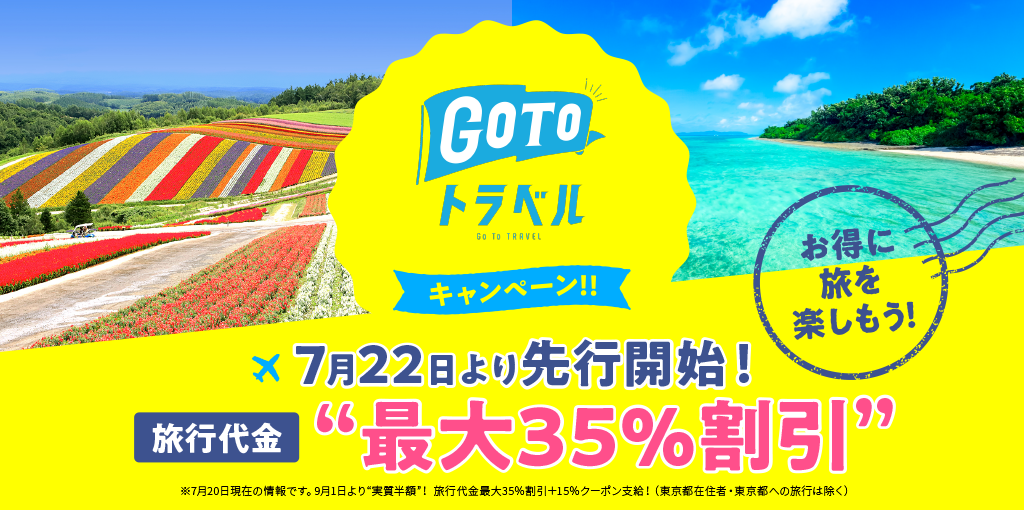
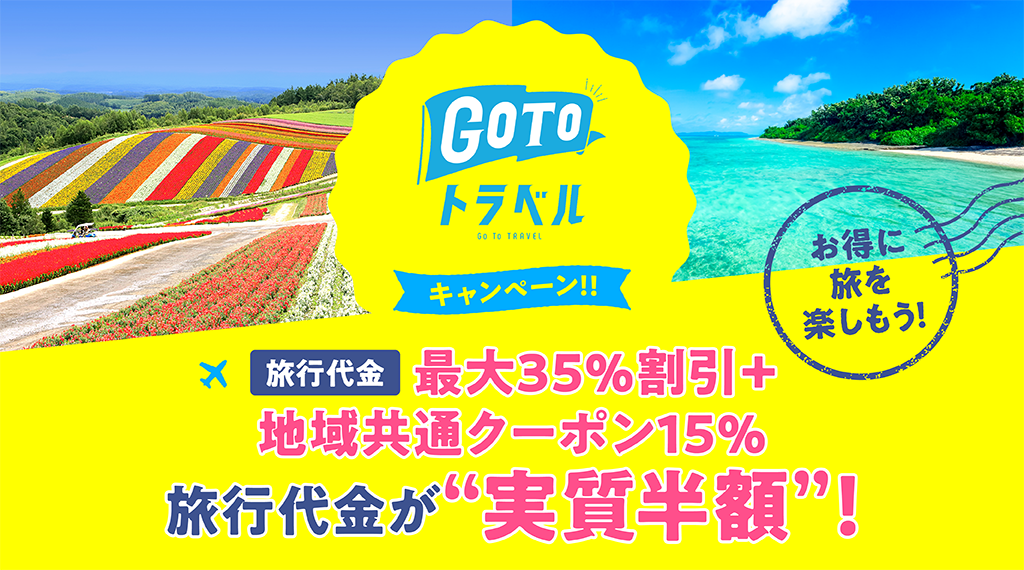
goto include tokyo

diff --git a/gototravel-page.php b/gototravel-page.php
@@ -49,9 +49,7 @@ Template Name: GOTOトラベルキャンペーンページ（gototravel-page.php
 	<img class="sp" src="<?php echo get_template_directory_uri(); ?>/img/ss/about_sp.svg" alt="Go To Travelキャンペーンとは" />
 </h2>
 <p class="aboutDescription">新型コロナウイルスの収束後に、観光需要を喚起させ、地域の再活性化を目指すキャンペーンが「Go To Travel キャンペーン」です。<br/><br/>
-期間中に旅行商品を購入した消費者に対して、国が旅行代金の最大半額（50%）分を、旅行代金で35%、土産物店、飲食店、観光施設、 アクティビティ、交通機関などで使えるクーポンで15%補助する制度です。（最大1人あたり1泊2万円分まで 、日帰りの場合1万円まで）<br/>
-7/22〜8/31は旅行代金の最大35%が割引となります。9/1より旅行代金の最大35%割引＋クーポン15%分が補助されます。<br/>
-※7月20日現在の情報です（東京都在住者・東京都への旅行は除く）<br><br>
+期間中に旅行商品を購入した消費者に対して、国が旅行代金の最大半額（50%）分を、旅行代金で35%、土産物店、飲食店、観光施設、 アクティビティ、交通機関などで使える地域共通クーポンで15%補助する制度です。（最大1人あたり1泊2万円分まで 、日帰りの場合1万円まで）<br/><br/>
 「Go To Travel キャンペーン」期間中は、利用回数や宿泊日数に制限はないので、何度でも何泊でも利用できる、たいへんお得でメリットのあるキャンペーンになっています。コロナの影響で予定していた旅行をキャンセルしたり、旅行に行きたい気持ちを我慢してきた旅行好きの方にとっては、魅力的なキャンペーンですね。</p>
 <!-- </section> -->
 
@@ -99,7 +97,7 @@ Template Name: GOTOトラベルキャンペーンページ（gototravel-page.php
 <p class="ribbon"><img src="<?php echo get_template_directory_uri(); ?>/img/ss/ribbon.png" alt="リボン" /></p>
 <h3 class="subTitle">Go To Travelで<br class="sp">どれくらいお得になるの？</h3>
 <h4 class="colorPink">1人につき1泊あたり2万円まで、日帰り旅行は1万円までを上限に旅行代金の最大半額（50%）分が補助されます。</h4>
-<p>単純に旅行代金の半額が割り引かれるわけではなく、旅行代金の半分のうち、70%が割引（補助）、残りの30%は、旅行先の土産物店、飲食店、観光施設、アクティビティ、交通機関などで使用できるクーポンで補助されることになります。</p>
+<p>単純に旅行代金の半額が割り引かれるわけではなく、旅行代金の半分のうち、70%が割引（補助）、残りの30%は、旅行先の土産物店、飲食店、観光施設、アクティビティ、交通機関などで使用できる地域共通クーポンで補助されることになります。</p>
 <h5><span>補助額</span>旅行代金の半額で最大補助額以内</h5>
 <p><img src="<?php echo get_template_directory_uri(); ?>/img/ss/hojo_table.svg" alt="補助額テーブル" /></p>
 <p class="miniText">※4泊以降も1泊ごとに2万円加算されます。</p>
@@ -139,11 +137,10 @@ Template Name: GOTOトラベルキャンペーンページ（gototravel-page.php
 <h2 class="mainTitle">期間・場所</h2>
 <div class="space">
 <h3 class="subTitle">「Go To Travel キャンペーン」は<br class="sp">どこに行けるの？</h3>
-<p>日本国内であれば、沖縄から北海道までどこでもOKです。沖縄の離島や北海道をドライブで1周など、キャンペーンを利用して今まで訪れたことのない場所や長期間の旅行など、計画してみるのもいいですね。<br>
-※7月20日現在の情報です（東京都在住者・東京都への旅行は除く）</p>
+<p>日本国内であれば、沖縄から北海道までどこでもOKです。沖縄の離島や北海道をドライブで1周など、キャンペーンを利用して今まで訪れたことのない場所や長期間の旅行など、計画してみるのもいいですね。</p>
 </div>
 <h3 class="subTitle">「Go To Travel キャンペーン」は<br class="sp">いつまで？</h3>
-<p>7/22から旅行会社での受付が開始され、2021年3月までキャンペーンは続く予定です。</p>
+<p>7/22から旅行会社での受付が開始され、2021年1月末までキャンペーンは続く予定です。</p>
 </section>
 <!-- /section -->
 
